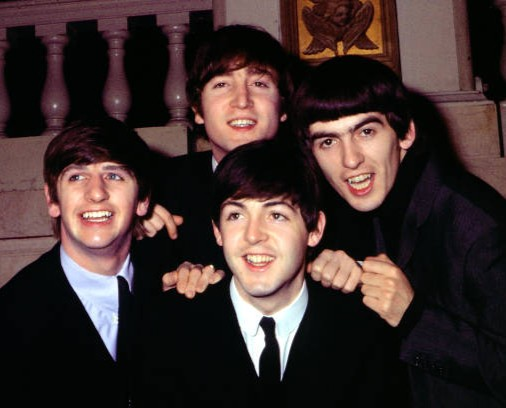
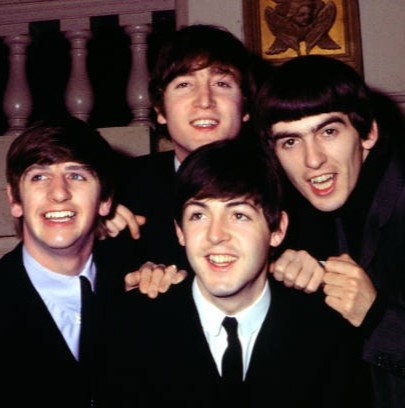
adicionado fotos dos beatles e as suas biografias

diff --git a/index.html b/index.html
@@ -26,14 +26,72 @@
     </header>
     <article id="conteudo">
         <section class="galeria">
-            <div class="caixa">
-                <img class="imagem1" src="imagens/beatlesnovo.jpg" width="20%">
-                <img class="imagem2" src="imagens/beatlesveio.jpg ">
+            <div class="conteudo">
+                <div class="caixa">
+                    <img class="imagem1" src="imagens/beatlesnovo.jpg">
+                    <img class="imagem2" src="imagens/beatlesveio.jpg ">
+                </div>
+                    <div class="textos">
+                         <H1>Bibliografia</H1>
+                        <p>The Beatles foi uma banda britânica de rock formada em Liverpool, em 1960,
+                         composta por John Lennon, Paul McCartney, George Harrison e Ringo Starr. Considerada uma das bandas mais influentes da história da música, 
+                         teve papel fundamental na transformação do rock e da cultura popular durante a década de 1960.</p><br>
+                        <p>A banda começou sua trajetória tocando em clubes de Liverpool e Hamburgo, conquistando popularidade no Reino Unido com a música Love Me Do, em 1962.
+                            Com o crescimento da Beatlemania, alcançou fama internacional em 1964, liderando a chamada Invasão Britânica nos Estados Unidos. Ao longo da carreira,
+                           explorou diversos estilos musicais e lançou álbuns marcantes, como Rubber Soul, Revolver, Sgt. Pepper's Lonely Hearts Club Band e Abbey Road</p><br>
+                        <p>O grupo encerrou suas atividades em 1970, e seus integrantes seguiram carreiras individuais. Apesar da separação, seu legado permaneceu, 
+                           com mais de 600 milhões de cópias vendidas mundialmente, diversos prêmios e sua inclusão no Rock and Roll Hall of Fame em 1988.</p>
+                    </div>
+                </div>
+<!--mano so demoro nessa desgraca por causa de ficar corrigindo erro de css, que desgraca-->
+            <div class="conteudoinvertido">
+                <div class="caixa">
+                    <img class="imagem1" src="imagens/paulnovo.jpg">
+                    <img class="imagem2" src="imagens/paulveio.jpg ">
+                </div>
+                <div class="textos">
+                    <h1>Paul McCartney</h1>
+                        <p>James Paul McCartney nasceu em 18 de junho de 1942, em Liverpool, Inglaterra. Foi cantor,
+                        compositor e baixista dos Beatles, sendo um dos principais responsáveis pelo desenvolvimento musical da banda. Ao lado de John Lennon,
+                        formou uma parceria que produziu algumas das músicas mais conhecidas do grupo.</p> Entre suas contribuições estão canções como Hey Jude e Let It Be. Depois da separação dos Beatles,
+                        continuou sua carreira musical, fundou a banda Wings e lançou diversos trabalhos solo. Ao longo das décadas, tornou-se um dos músicos mais influentes e reconhecidos da música mundial.</p>
+                </div>
             </div>
-
-            <div class="caixa">
-                <img class="imagem1" src="imagens/paulnovo.jpg">
-                <img class="imagem2" src="imagens/paulveio.jpg ">
+             <div class="conteudo">
+                <div class="caixa">
+                    <img class="imagem1" src="imagens/georgenovo.jpg">
+                    <img class="imagem2" src="imagens/georgeveio.jpg ">
+                </div>
+                <div class="textos">
+                    <h1>George Harrison</h1>
+                        <p>George Harrison nasceu em 25 de fevereiro de 1943, em Liverpool, Inglaterra. Foi o guitarrista principal dos Beatles e o integrante mais jovem da formação mais conhecida do grupo.
+                        Embora inicialmente tivesse menos espaço para composições, conquistou destaque com músicas como Something e Here Comes the Sun. Durante sua trajetória na banda, desenvolveu grande interesse pela música e cultura indianas,
+                        incorporando novos instrumentos e influências às composições dos Beatles. Após o fim do grupo, construiu uma carreira solo de sucesso, com destaque para o álbum All Things Must Pass. Faleceu em 29 de novembro de 2001, vítima de câncer.</p>
+                </div>
+            </div>
+             <div class="conteudoinvertido">
+                <div class="caixa">
+                    <img class="imagem1" src="imagens/ringonovo.jpg">
+                    <img class="imagem2" src="imagens/ringoveio.jpg ">
+                </div>
+                <div class="textos">
+                    <h1>Ringo Starr</h1>
+                        <p>Richard Starkey, conhecido mundialmente como Ringo Starr, nasceu em 7 de julho de 1940, em Liverpool, Inglaterra. Antes de entrar nos Beatles, já trabalhava como baterista em outras bandas,
+                        desenvolvendo experiência musical. Em 1962, substituiu Pete Best e tornou-se o baterista definitivo do grupo. Além de tocar bateria, também participou dos vocais de algumas músicas, como Yellow Submarine e With a Little Help from My Friends.
+                        Após a separação dos Beatles, iniciou uma carreira solo, lançou diversos álbuns e colaborou com outros artistas. Continua sendo reconhecido como um dos bateristas mais importantes da história do rock.</p>
+                </div>
+            </div>
+             <div class="conteudo">
+                <div class="caixa">
+                    <img class="imagem1" src="imagens/jonhnovo.jpg">
+                    <img class="imagem2" src="imagens/jonhveio.jpg ">
+                </div>
+                <div class="textos">
+                    <h1>John Lennon</h1>
+                        <p>John Winston Lennon nasceu em 9 de outubro de 1940, na cidade de Liverpool, Inglaterra. Foi cantor, compositor e um dos fundadores dos Beatles. Desde jovem demonstrava interesse pela música e, em 1957,
+                        conheceu Paul McCartney, com quem desenvolveu uma das parcerias musicais mais importantes da história. Na banda, atuava como vocalista e guitarrista, além de compor diversas canções. Após o fim dos Beatles, iniciou uma carreira solo, 
+                        lançando músicas de grande sucesso, como Imagine. Também ficou conhecido por seu ativismo em defesa da paz. Foi assassinado em Nova York, em 8 de dezembro de 1980.</p>
+                </div>
             </div>
         </section>
     </article>

diff --git a/estilos.css b/estilos.css
@@ -66,21 +66,38 @@ section.titulos {
     font-size: 20pt;
 }
 /*fomrmatação das fotos*/
-div.caixa{
-    position: relative;
-    background-color: #556e40;
-    width: 290px;
-    height: 240px;
+div.conteudo{
     display: flex;
-    justify-content: center;
     align-items: center;
+    gap: 30px;
+    background-color: #96d166;
+    padding: 20px;
     margin: 20px;
 }
+div.conteudoinvertido{
+    display: flex;
+    flex-direction: row-reverse;
+    margin-left: auto;
+    margin-right: 20px;
+    background-color: #d6cc5b;
+    margin: 20px;
+    padding: 20px;
+}
+/*formatação da caixa*/
+div.caixa{
+    position: relative;
+    width: 290px;
+    height: 240px;
+    min-width: 290px;
+}
 div.caixa img{
-    width: 80%;
-    height: 80%;
+    width: 90%;
     height: auto;
+    max-width: 90%;
     position: absolute;
+    top: 50%;
+    left: 50%;
+    transform: translate(-50%, -50%);
     transition: opacity 0.5s ease;
     
 }
@@ -98,7 +115,11 @@ div.caixa:hover .imagem1 {
 div.caixa:hover .imagem2 {
     opacity: 1;
 }
-
+/*textos inicio*/
+div.textos{
+    gap: 30px;
+    text-align: center;
+}
 /*Beatlemania era*/
 p {
     font-family:Verdana;

diff --git a/beatlemania.html b/beatlemania.html
@@ -6,15 +6,11 @@
     <link rel="stylesheet" type="text/css" href="estilos.css">
 </head>
 <body>
-    <header id="cabecalho">
+    <header id="cabecalho"> 
         <figure class="logo">
         <img src="imagens/beatles logo.png" alt="logo" width="27%">
         </figure>
-<<<<<<< HEAD
-        
-=======
-       
->>>>>>> b9ef3af60d31db01c6e3a6a234a0956c10bee68c
+ 
         <nav class="abas">
             <ul>
 			    <li class="index"> <a href="index.html">Inicio</a></li>

diff --git a/apple.html b/apple.html
@@ -10,11 +10,7 @@
         <figure class="logo">
         <img src="imagens/beatles logo.png" alt="logo" width="27%">
         </figure>
-<<<<<<< HEAD
     
-=======
-        
->>>>>>> b9ef3af60d31db01c6e3a6a234a0956c10bee68c
         <nav class="abas">
             <ul>
 		       <li class="index"> <a href="index.html">Inicio</a></li>

diff --git a/dylan.html b/dylan.html
@@ -10,11 +10,7 @@
         <figure class="logo">
         <img src="imagens/beatles logo.png" alt="logo" width="27%">
         </figure>
-<<<<<<< HEAD
        
-=======
-        
->>>>>>> b9ef3af60d31db01c6e3a6a234a0956c10bee68c
         <nav class="abas">
             <ul>
 			   <li class="index"> <a href="index.html">Inicio</a></li>
